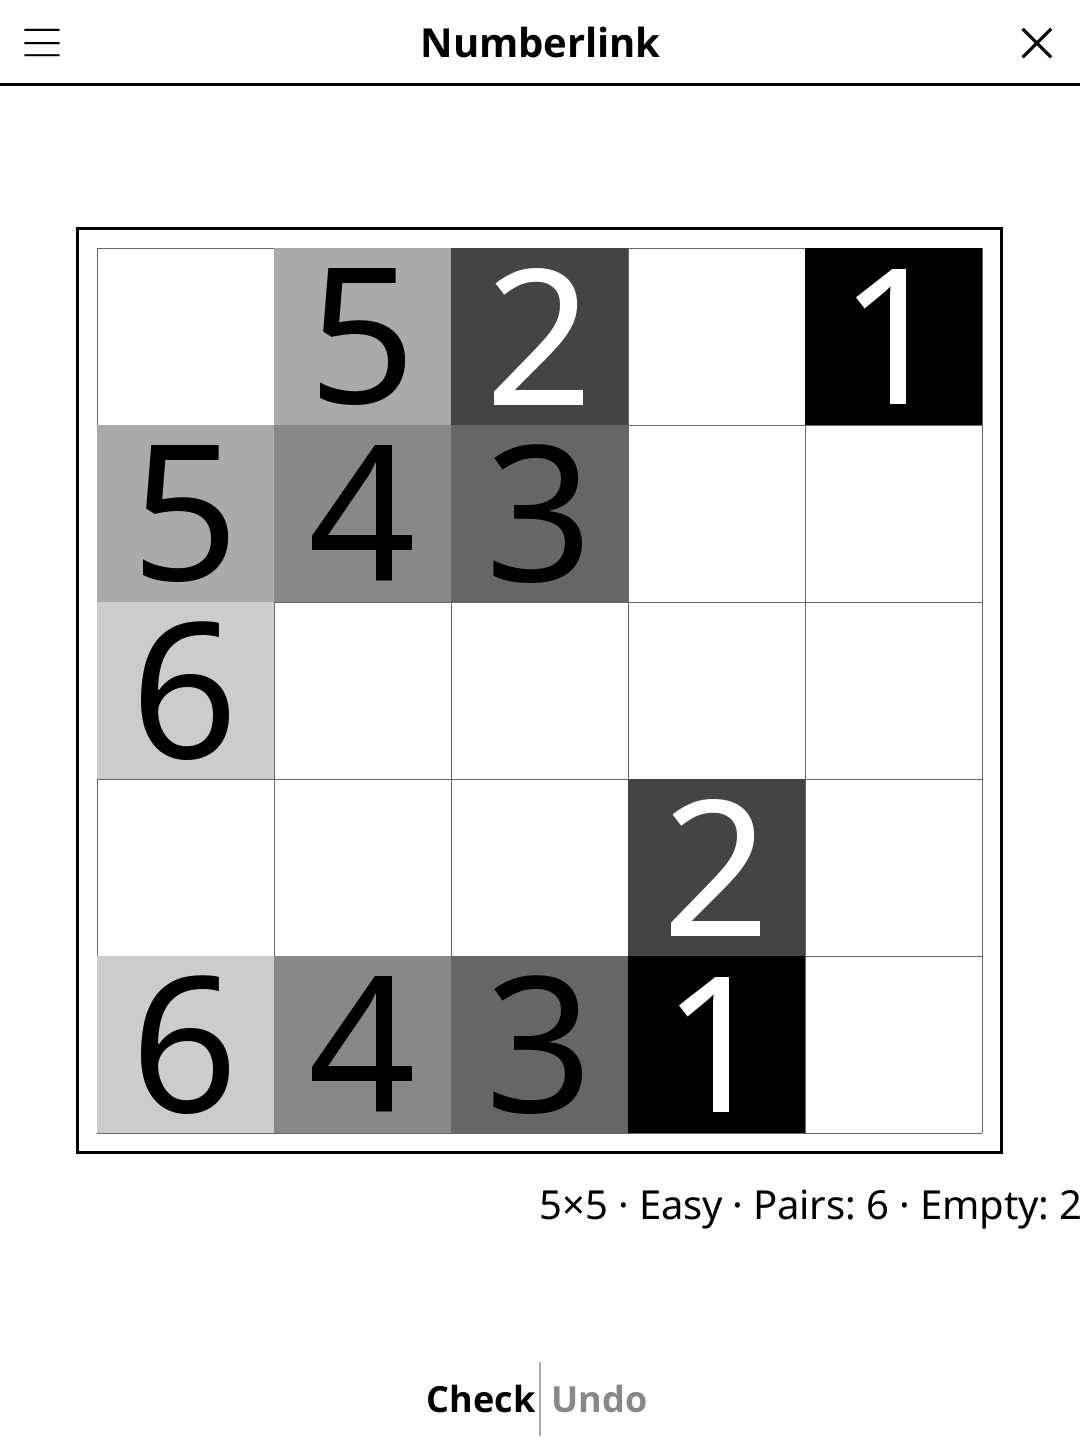
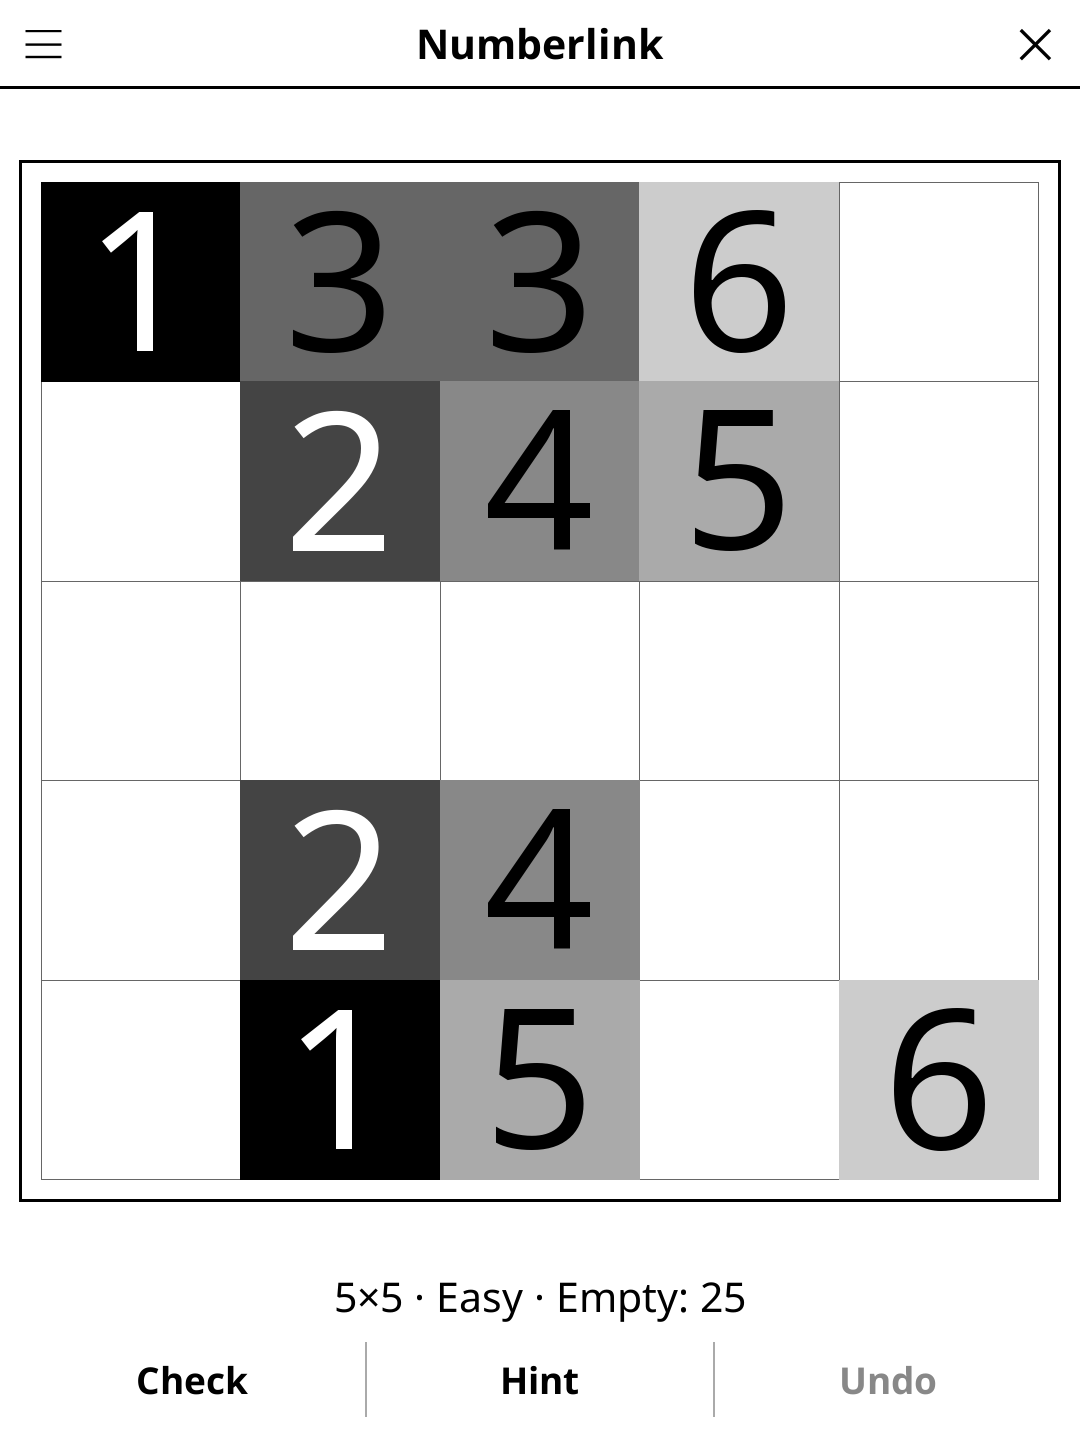
release: 1.3.0 -- redesigned screen, harmonised menu, New game at round end
Screen redesign (full-width action bar, unified pad, status line, larger
board), harmonised title-bar menu, and a "New game" button once the round
is over. See CHANGELOG.md.

diff --git a/CHANGELOG.md b/CHANGELOG.md
@@ -2,6 +2,30 @@
 
 All notable changes to this project will be documented in this file.
 
+## [1.3.0] - 2026-10-30
+
+### Added
+- "New game" once the puzzle is solved: the action bar shows it in place of
+  Check, Hint and Undo, so the next puzzle no longer needs the menu. Showing
+  the solution does not end the round, since it can be hidden again.
+
+### Changed
+- Redesigned play screen, in line with the other games: a full-width action
+  bar, a larger board that fills the available room, and one frame around
+  it. The status line reads "size · difficulty · Empty: n" and wraps in
+  landscape instead of being cut off.
+- Title-bar menu in the same order as every other game, with the current
+  values shown: "Size: …" (was "Grid: …"), "Difficulty: …" (was "Diff:
+  …"), and "Show solution" / "Hide solution" (was a bare "Show" / "Hide").
+- New README screenshot.
+
+### Fixed
+- On boards with ten or more pairs, the two-digit endpoint numbers
+  overflowed their cells; the font is now sized for them.
+- Using Hint wiped the saved game: the board was saved as nothing. And when
+  a hint fills the last cell, the status now shows the win message.
+- The grid's closing lines were drawn just past its right and bottom edges.
+
 ## [1.2.2] - 2026-10-07
 
 ### Fixed

diff --git a/README.md b/README.md
@@ -40,8 +40,8 @@ by exactly one path.
 | Undo last segment | Tap **Undo** |
 | Check progress | Tap **Check** |
 | New game | Tap **New game** |
-| Change grid size | Tap **Grid** |
-| Change difficulty | Tap **Diff** |
+| Change grid size | Tap **Size** |
+| Change difficulty | Tap **Difficulty** |
 | Show rules | Tap **Rules** |
 
 ## Why e-ink friendly?
